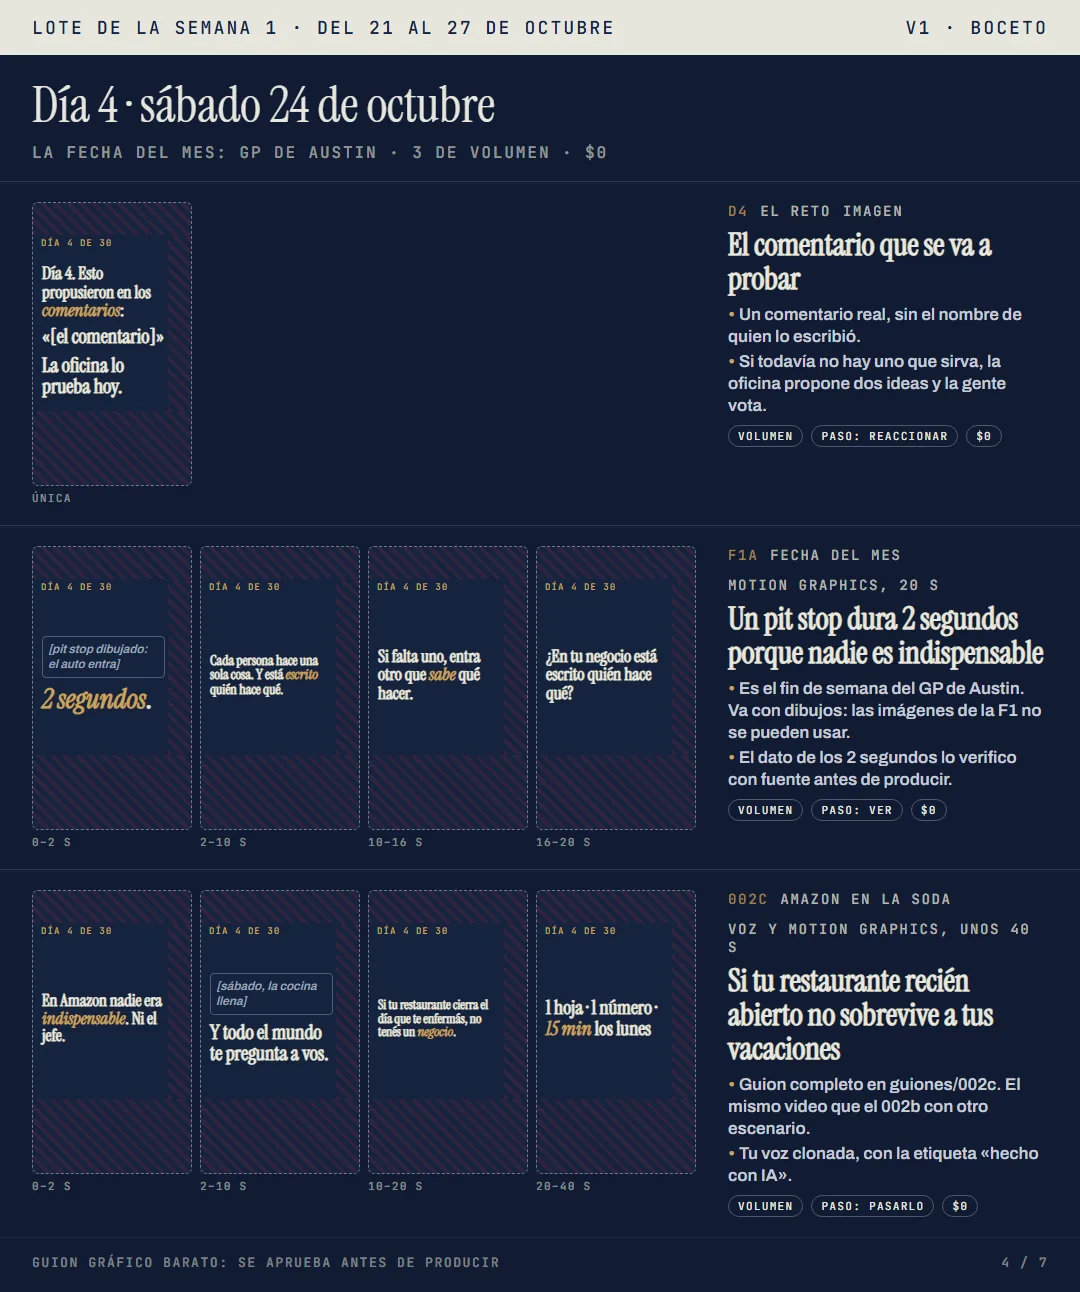
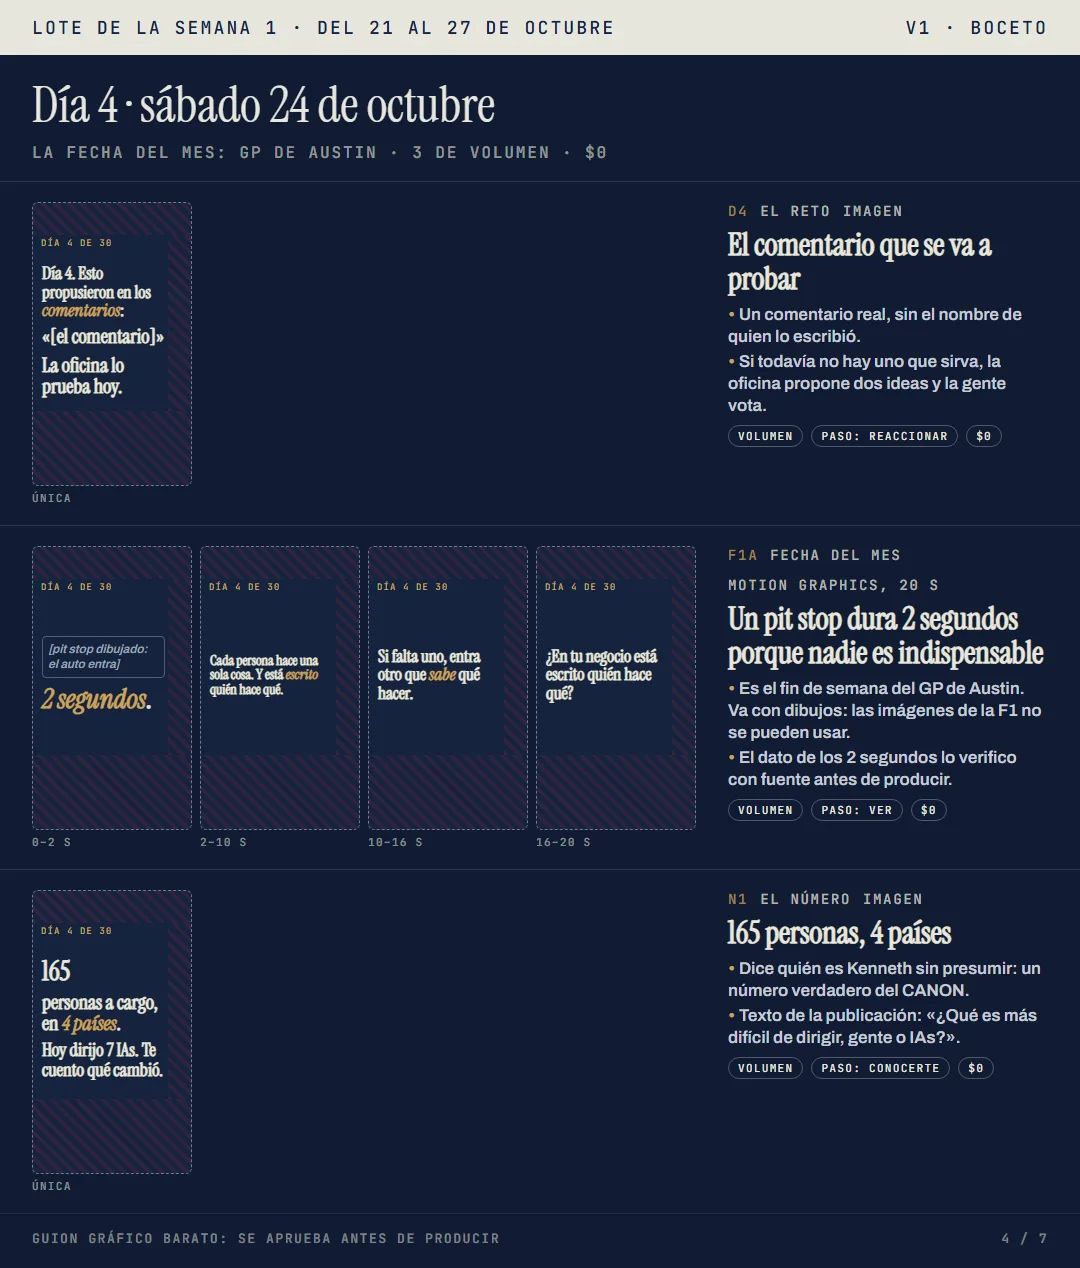
marca: consola al día (tareas viejas cerradas) y la idea de las vacaciones repartida en 3 semanas

diff --git a/marca/consola/sembrar.py b/marca/consola/sembrar.py
@@ -62,7 +62,7 @@ V2 = [
     ("RN1", "3 noticias en 30 s", "voz", "Las 3 noticias de IA de la semana", RN, "Ver", "por-hacer"),
     ("F1A", "Fecha del mes", "motion", "Un pit stop dura 2 segundos porque nadie es indispensable", "Fin de semana del GP de Austin (23 al 25 de octubre): la F1 es del mundo de Kenneth.", "Ver", "por-hacer"),
     ("PER1", "Personal", "personal", "Video personal", PER, "Conocerte", "por-hacer"),
-    ("R2", "La regla", "motion", "Un sistema que te necesita es una dependencia", "Una regla que se guarda.", "Pasarlo", "por-hacer"),
+    ("R5", "La regla", "motion", "Nada se hace dos veces", "Ahorro que cualquier negocio entiende.", "Pasarlo", "por-hacer"),
     ("NS1", "La noticia sin jerga", "voz", "La noticia de la semana, sin jerga", NOT, "Pasarlo", "por-hacer"),
     ("J2", "IA sin jerga", "motion", "Un «agente» es un empleado de IA", "Prepara La Oficina. Coincide con GitHub Universe (28 y 29 de octubre).", "Ver", "por-hacer"),
     ("PR2", "La prueba", "voz", "¿Una IA puede contar el inventario de una soda con una foto?", PRU, "Pasarlo", "por-hacer"),
@@ -74,7 +74,7 @@ V2 = [
     ("J3", "IA sin jerga", "motion", "Un «modelo» es una IA", "Una palabra que se oye todos los días.", "Ver", "por-hacer"),
     ("PR3", "La prueba", "voz", "Le pedí a la oficina el manual de apertura de una cafetería", PRU + " Conecta con el 002b.", "Pasarlo", "por-hacer"),
     ("RN3", "3 noticias en 30 s", "voz", "Las 3 noticias de IA de la semana", RN, "Ver", "por-hacer"),
-    ("R5", "La regla", "motion", "Nada se hace dos veces", "Ahorro que cualquier negocio entiende. Fin de semana del GP de São Paulo.", "Pasarlo", "por-hacer"),
+    ("R2", "La regla", "motion", "Un sistema que te necesita es una dependencia", "Una regla que se guarda.", "Pasarlo", "por-hacer"),
     ("PER3", "Personal", "personal", "Video personal", PER, "Conocerte", "por-hacer"),
     ("R6", "La regla", "motion", "Lo que no se escribe no pasó", "La regla de la bitácora.", "Pasarlo", "por-hacer"),
     ("NS3", "La noticia sin jerga", "voz", "La noticia de la semana, sin jerga", NOT + " Semana de Web Summit y Adobe MAX.", "Pasarlo", "por-hacer"),
@@ -92,16 +92,16 @@ V3 = [
     ("P1", "Postura", "imagen", "Si tu negocio no sobrevive a tus vacaciones, no es un negocio", "Opinión fuerte que divide: trae comentarios. Sale del 002.", "Reaccionar", "por-hacer"),
     ("002b", "Amazon en la soda", "voz", "Si tu cafetería recién abierta no sobrevive a tus vacaciones", "Prueba del escenario: cafetería. Voz y motion graphics, $0.", "Pasarlo", "guion"),
     ("L1", "La lista", "carrusel", "La reunión de los lunes en 15 minutos", "Algo que se usa el lunes siguiente: se guarda.", "Pasarlo", "por-hacer"),
-    ("002c", "Amazon en la soda", "voz", "Si tu restaurante recién abierto no sobrevive a tus vacaciones", "Prueba del escenario: restaurante. Voz y motion graphics, $0.", "Pasarlo", "guion"),
+    ("N1", "El número", "imagen", "165 personas, 4 países", "Dice quién es Kenneth sin presumir.", "Conocerte", "por-hacer"),
     ("Q1", "Pregunta", "imagen", "¿Le darías la caja a una IA? Sí o no.", "Obliga a tomar partido en los comentarios.", "Reaccionar", "por-hacer"),
-    ("002d", "Amazon en la soda", "voz", "Si acabás de emprender y tu negocio no sobrevive a tus vacaciones", "Prueba del escenario: quien acaba de emprender. Voz y motion graphics, $0.", "Pasarlo", "guion"),
+    ("Q2", "Pregunta", "imagen", "¿Qué tarea de tu negocio le darías mañana a una IA?", "Las respuestas alimentan las pruebas.", "Reaccionar", "por-hacer"),
     ("P2", "Postura", "imagen", "Tu mejor empleado es el que menos debería hacer", "Opinión que divide y Kenneth puede defender.", "Reaccionar", "por-hacer"),
     ("N2", "El número", "imagen", "800 personas de capacidad, 25 % de uso", "Un dato real que hace preguntar quién es este.", "Conocerte", "por-hacer"),
-    ("N1", "El número", "imagen", "165 personas, 4 países", "Dice quién es Kenneth sin presumir.", "Conocerte", "por-hacer"),
+    ("002c", "Amazon en la soda", "voz", "Si tu restaurante recién abierto no sobrevive a tus vacaciones", "Prueba del escenario: restaurante. Voz y motion graphics, $0.", "Pasarlo", "guion"),
     ("L2", "La lista", "carrusel", "Las 3 cosas que solo vos sabés", "Sale del 002: lo que hay que dejar escrito.", "Pasarlo", "por-hacer"),
     ("RC1", "Respuesta a un comentario", "voz", "Respuesta a un comentario", RES, "Reaccionar", "por-hacer"),
     ("MR1", "La mejor respuesta", "imagen", "La mejor respuesta de la semana", RES, "Reaccionar", "por-hacer"),
-    ("Q2", "Pregunta", "imagen", "¿Qué tarea de tu negocio le darías mañana a una IA?", "Las respuestas alimentan las pruebas.", "Reaccionar", "por-hacer"),
+    ("002d", "Amazon en la soda", "voz", "Si acabás de emprender y tu negocio no sobrevive a tus vacaciones", "Prueba del escenario: quien acaba de emprender. Voz y motion graphics, $0.", "Pasarlo", "guion"),
     ("P3", "Postura", "imagen", "La IA no te va a quitar el trabajo: te lo va a quitar el compañero que la usa", "Opinión que divide (ESTRATEGIA.md §5).", "Reaccionar", "por-hacer"),
     ("A3", "Amazon en la soda", "voz", "La reunión de los lunes", "Un método de Amazon que un negocio copia el lunes siguiente.", "Pasarlo", "por-hacer"),
     ("N4", "El número", "imagen", "12 semanas, sin contratar a un gerente", "Cierra el caso del anfiteatro.", "Conocerte", "por-hacer"),
@@ -178,23 +178,25 @@ TAREAS = [
     ("k-reto", "Sí al reto de 30 días, a 1.000 seguidores", "La meta de la fase 1, contada en público. El G0 pasa por guion gráfico.", "Kenneth", "2026-10-20", True),
     ("k-heygen", "Cargar unos $5 en HeyGen", "Cargaste $15 el 19-oct: hay $17.88. Se carga por semana, solo lo de sus insignias.", "Kenneth", "2026-10-20", True),
     ("k-dia1", "Seguidores de hoy en TikTok e Instagram", "Ya no hace falta que los pases: los leo de los perfiles públicos. 19-oct: TikTok 1.080, Instagram 578.", "Kenneth", "2026-10-20", True),
-    ("k-perfil", "Poner nombre, bio y foto del perfil", "«Kenneth Picado · Dirijo una oficina de IAs». La bio está en ESTRATEGIA.md §7. La misma foto en las dos redes.", "Kenneth", "2026-10-20", False),
+    ("k-perfil", "Terminar el perfil desde el teléfono", "Ya están el nombre y la bio de TikTok y la bio de Instagram. Faltan: la foto de Payhip y el enlace trysemi.com en las dos redes (solo se cambian desde el teléfono), y el sí al nombre «Kenneth Picado» en Instagram (queda fijo 60 días).", "Kenneth", "2026-10-21", False),
     ("k-lote", "Sí a aprobar en lote, con guion gráfico primero", "Siempre un guion gráfico barato primero; el contenido real, solo cuando lo aprobás.", "Kenneth", "2026-10-20", True),
-    ("k-facebook", "Crear la página «Kenneth Picado» y conectarla en Buffer", "Es la tercera red gratis de Buffer. Avisame cuando esté y reviso qué canales ve.", "Kenneth", "2026-10-21", False),
-    ("k-xli", "X y LinkedIn: ¿ya o en la fase 2?", "Ya cuesta unos $25 al mes en Buffer. La estrategia los deja para la fase 2.", "Kenneth", "2026-10-21", False),
+    ("k-facebook", "Crear la página «Kenneth Picado» y conectarla en Buffer", "No es urgente. Es la tercera red gratis de Buffer y recibe lo mismo que Instagram. Crear la página lo tenés que hacer vos.", "Kenneth", "2026-10-28", False),
+    ("k-xli", "X y LinkedIn: ¿ya o en la fase 2?", "Decidido (20-oct): LinkedIn en la fase 2, con el perfil ya listo (trysemi.com y Fundador de SEMI). X también en la fase 2.", "Kenneth", "2026-10-20", True),
     ("k-bernal", "Hablar con Bernal", "Pasarle el carrusel de aires (es terreno de Cawhi) y consultarle la idea A8, que toca ventas.", "Kenneth", "2026-10-23", False),
     ("k-arranca", "Decir «arranca»", "El Día 1 es el miércoles 21 de octubre.", "Kenneth", "2026-10-20", True),
     ("k-j1", "Aprobar el J1 en estilo pizarra", "Está hecho; va en el Día 1. Si no te convence el estilo, se cambia antes de hacer los otros.", "Kenneth", "2026-10-20", False),
-    ("k-blob", "Crear el almacén Blob de la consola en Vercel", "Proyecto kennethpicado-consola → Storage → Blob, acceso Private. Sin eso, la consola de Vercel no guarda lo que marcás.", "Kenneth", "2026-10-22", False),
+    ("k-blob", "Crear el almacén Blob de la consola en Vercel", "Hecho el 19-oct: la consola de Vercel ya guarda lo que marcás.", "Kenneth", "2026-10-19", True),
     ("c-consola", "Alinear la consola con la estrategia", "Seguidores nuevos como meta, la cadena, volumen e insignias, y la semana 1.", "Claude", "2026-10-19", True),
     ("c-costeo", "Alinear el costeo", "Costo por seguidor nuevo de cada insignia.", "Claude", "2026-10-19", True),
     ("c-lote", "Guion gráfico de la semana 1", "Las 21 piezas de volumen y las 3 insignias, en bocetos de $0. Está en Guiones.", "Claude", "2026-10-19", True),
-    ("c-002", "Rehacer el gancho del 002 hasta pasar la vara", "Los 3 ganchos nuevos están en el guion gráfico de la semana 1. Con tu sí van a la prueba: 70 de total, 60 de gancho y 90 de «sostiene» (el mejor intento sacó 56).", "Claude", "2026-10-21", False),
-    ("c-g0", "Prueba de gancho del G0", "Su boceto está en el guion gráfico de la semana 1. Con tu sí, la prueba y después el gemelo.", "Claude", "2026-10-21", False),
-    ("c-001", "Prueba de gancho del 001", "Su boceto está en el guion gráfico de la semana 1. Con tu sí, la prueba y después el gemelo.", "Claude", "2026-10-22", False),
-    ("c-002bcd", "Hacer el 002b, el 002c y el 002d", "Voz y motion graphics, $0, después de tu sí al guion gráfico. Gana el escenario con más seguidores por cada 1.000 vistas.", "Claude", "2026-10-22", False),
-    ("c-reto", "Plantilla del contador «Día N de 30»", "Un loop que se rehace cada día con el número, después de tu sí al guion gráfico.", "Claude", "2026-10-21", False),
+    ("c-002", "El 002 sale con el gancho C", "Probé 4 ganchos nuevos (54, 50, 54 y 52) y ninguno le ganó a C (56). Detalle en marca/ganchos/002.md. Falta tu sí a la vara nueva de las insignias.", "Claude", "2026-10-21", False),
+    ("c-g0", "Producir el G0 «Kenneth no grabó este video»", "Guion, voz y prueba de gancho primero ($0). El gemelo (unos $1.60) solo después de las 4 preguntas de REVISION-PROCESO.md.", "Claude", "2026-10-21", False),
+    ("c-001", "Producir el 001 (Día 5)", "Guion gráfico listo. Prueba de gancho ($0) y las 4 preguntas antes de pagar el gemelo.", "Claude", "2026-10-23", False),
+    ("c-002bcd", "Hacer el 002b (Día 2)", "Voz y motion graphics, $0. El 002c y el 002d se pasaron a los días 9 y 13 para no repetir la misma idea 6 veces en la semana 1.", "Claude", "2026-10-21", False),
+    ("c-reto", "Contador «Día N de 30» con los números reales", "Con el efecto de la curva; cada mañana leo tus perfiles y se vuelve a armar.", "Claude", "2026-10-21", False),
     ("c-buffer", "Programar en Buffer lo aprobado (E003)", "Lo que apruebes en el guion gráfico se programa solo en TikTok e Instagram: vos no publicás nada a mano. Va antes del Día 1.", "Claude", "2026-10-21", False),
+    ("c-semana1", "Producir el volumen de la semana 1", "Las 21 piezas, con las 4 preguntas cada una, listas para que las revisés una por una.", "Claude", "2026-10-21", False),
+    ("c-ias", "Contar las IAs activas de la oficina", "La bio y el reto dicen «7 IAs»: el CANON pide contarlas en TORRE antes de decirlo.", "Claude", "2026-10-21", False),
     ("c-medicion", "Cargar los números a las 48 horas y a los 7 días", "Seguidores nuevos por pieza y por semana, y la revisión de los lunes.", "Claude", "2026-10-23", False),
 ]
 

diff --git a/marca/MES-1.md b/marca/MES-1.md
@@ -181,24 +181,24 @@ Lo mismo está en la consola, como calendario. Se genera con `python marca/conso
 
 | Día | Fecha | V1 · el reto | V2 | V3 | Insignia |
 |---|---|---|---|---|---|
-| 1 | Mié 21 oct | `D1` El contador en el número real | `J1` «Prompt» son las instrucciones que le di | `P1` Si tu negocio no sobrevive a tus vacaciones, no es un negocio | `G0` «Kenneth no grabó este video»: el gemelo se presenta como IA y lanza el reto (Día 1) |
+| 1 | Mié 21 oct | `D1` El contador en el número real | `J1` «Prompt» son las instrucciones que le di | `P1` Si tu negocio no sobrevive a tus vacaciones, no es un negocio | `G0` «Kenneth no grabó este video»: el gemelo se presenta y lanza el reto (Día 1) |
 | 2 | Jue 22 oct | `D2` El plan de la oficina: quién hace qué | `PR1` 3 IAs de la oficina: el mismo pedido vago y después completo | `002b` Si tu cafetería recién abierta no sobrevive a tus vacaciones | — |
 | 3 | Vie 23 oct | `D3` El contador y lo que falló | `RN1` Las 3 noticias de IA de la semana | `L1` La reunión de los lunes en 15 minutos | `002` Si tu negocio no sobrevive a tus vacaciones (con el gancho nuevo) |
-| 4 | Sáb 24 oct | `D4` El comentario que se va a probar | `F1A` Un pit stop dura 2 segundos porque nadie es indispensable | `002c` Si tu restaurante recién abierto no sobrevive a tus vacaciones | — |
+| 4 | Sáb 24 oct | `D4` El comentario que se va a probar | `F1A` Un pit stop dura 2 segundos porque nadie es indispensable | `N1` 165 personas, 4 países | — |
 | 5 | Dom 25 oct | `D5` Resumen de los primeros 5 días | `PER1` Video personal | `Q1` ¿Le darías la caja a una IA? Sí o no. | `001` Mi empleado se calificó su propio examen |
-| 6 | Lun 26 oct | `D6` Lo que decidió la oficina el lunes | `R2` Un sistema que te necesita es una dependencia | `002d` Si acabás de emprender y tu negocio no sobrevive a tus vacaciones | — |
+| 6 | Lun 26 oct | `D6` Lo que decidió la oficina el lunes | `R5` Nada se hace dos veces | `Q2` ¿Qué tarea de tu negocio le darías mañana a una IA? | — |
 | 7 | Mar 27 oct | `D7` El contador | `NS1` La noticia de la semana, sin jerga | `P2` Tu mejor empleado es el que menos debería hacer | — |
 | 8 | Mié 28 oct | `D8` El contador: una semana | `J2` Un «agente» es un empleado de IA | `N2` 800 personas de capacidad, 25 % de uso | `003` Le prohibí trabajar a mi mejor empleado |
-| 9 | Jue 29 oct | `D9` El contador y lo que se probó | `PR2` ¿Una IA puede contar el inventario de una soda con una foto? | `N1` 165 personas, 4 países | — |
+| 9 | Jue 29 oct | `D9` El contador y lo que se probó | `PR2` ¿Una IA puede contar el inventario de una soda con una foto? | `002c` Si tu restaurante recién abierto no sobrevive a tus vacaciones | — |
 | 10 | Vie 30 oct | `D10` El comentario que se va a probar | `RN2` Las 3 noticias de IA de la semana | `L2` Las 3 cosas que solo vos sabés | `AMX` El escenario que va ganando, ahora con Kenneth |
 | 11 | Sáb 31 oct | `D11` El contador | `HAL` Lo que de verdad asusta en un negocio: que todo dependa de vos | `RC1` Respuesta a un comentario | — |
 | 12 | Dom 1 nov | `D12` Resumen de la semana 2 | `PER2` Video personal | `MR1` La mejor respuesta de la semana | `004` Un anfiteatro para 800 personas al 25 % |
-| 13 | Lun 2 nov | `D13` Lo que decidió la oficina el lunes | `R1` El que hace el trabajo no lo revisa | `Q2` ¿Qué tarea de tu negocio le darías mañana a una IA? | — |
+| 13 | Lun 2 nov | `D13` Lo que decidió la oficina el lunes | `R1` El que hace el trabajo no lo revisa | `002d` Si acabás de emprender y tu negocio no sobrevive a tus vacaciones | — |
 | 14 | Mar 3 nov | `D14` El contador | `NS2` La noticia de la semana, sin jerga | `P3` La IA no te va a quitar el trabajo: te lo va a quitar el compañero que la usa | — |
 | 15 | Mié 4 nov | `D15` Mitad del reto: cuánto falta | `J3` Un «modelo» es una IA | `A3` La reunión de los lunes | `DIA15` Mitad del reto: cuánto llevamos y qué cambió |
 | 16 | Jue 5 nov | `D16` El contador y lo que se probó | `PR3` Le pedí a la oficina el manual de apertura de una cafetería | `N4` 12 semanas, sin contratar a un gerente | — |
 | 17 | Vie 6 nov | `D17` El comentario que se va a probar | `RN3` Las 3 noticias de IA de la semana | `L3` Apertura y cierre del local | `005` La oficina me avisó tres veces |
-| 18 | Sáb 7 nov | `D18` El contador | `R5` Nada se hace dos veces | `RC2` Respuesta a un comentario | — |
+| 18 | Sáb 7 nov | `D18` El contador | `R2` Un sistema que te necesita es una dependencia | `RC2` Respuesta a un comentario | — |
 | 19 | Dom 8 nov | `D19` Resumen de la semana 3 | `PER3` Video personal | `MR2` La mejor respuesta de la semana | `TOP1` La pieza de volumen que más seguidores trajo, ahora con Kenneth |
 | 20 | Lun 9 nov | `D20` Lo que decidió la oficina el lunes | `R6` Lo que no se escribe no pasó | `Q3` ¿Cuál es la tarea que más odiás de tu negocio? La oficina prueba la más votada | — |
 | 21 | Mar 10 nov | `D21` El contador | `NS3` La noticia de la semana, sin jerga | `P4` Si tenés que estar para que funcione, no lo construiste: lo cargás | — |
